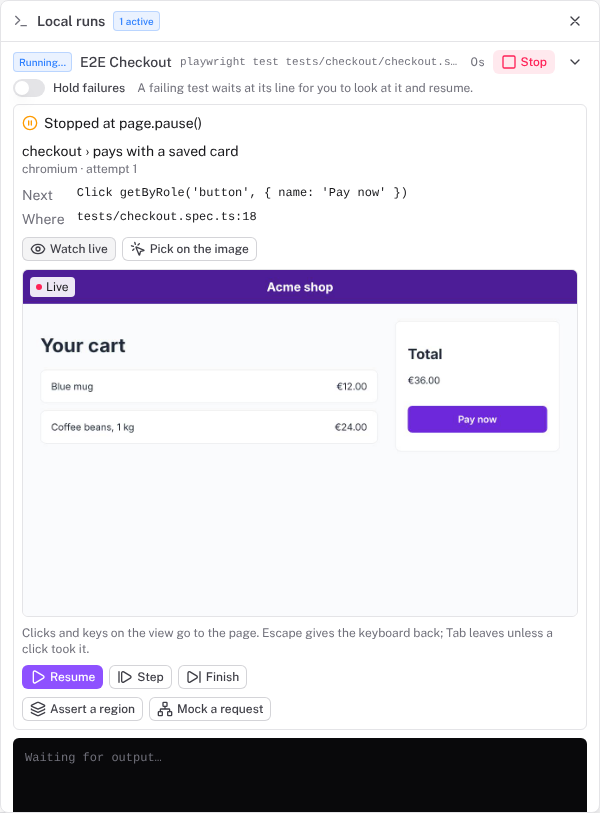
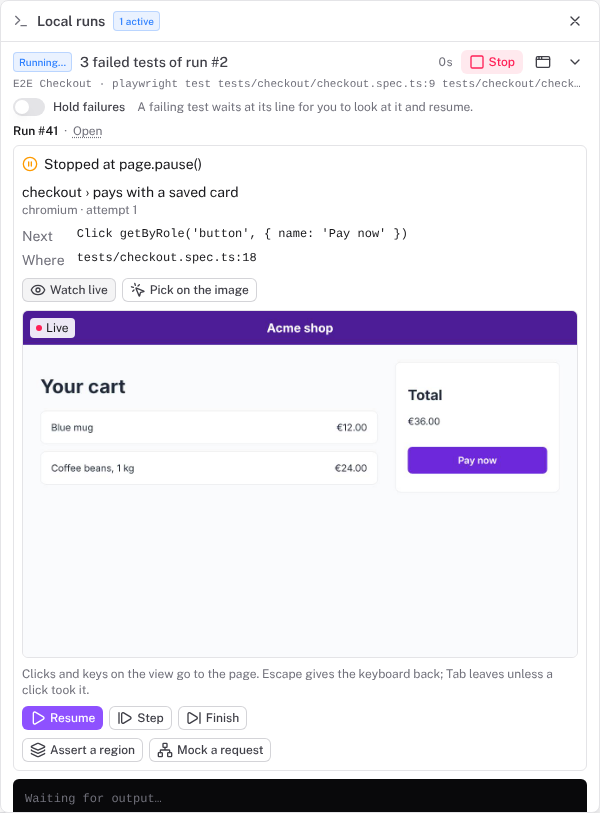
docs(docs): show the run's number and page in the desktop tray and Runs window screenshots
The desktop-run-live scene's run names its page, so the tray shows Run #41 · Open, and the
picker-runs scene plays the run's own process, so the Runs window shows Run #78 with Open and
Copy link and how far the run is. The Runs window is captured at its window's size, its top as it
opens.

Claude-Session: https://claude.ai/code/session_01ADXAbeVo5hXs63eeexKcKH

diff --git a/apps/extension/tests/e2e/docs-screenshots.spec.ts b/apps/extension/tests/e2e/docs-screenshots.spec.ts
@@ -19,6 +19,7 @@ import type { PiwiSteps } from '@piwitests/core/steps';
 import {
   answerNext,
   pairedExtension,
+  runMain,
   startEditor,
   startRun,
   RUN_TAKES,
@@ -259,8 +260,13 @@ test('picker-runs', async () => {
     await runs.setViewportSize({ width: 440, height: 700 });
     await runs.goto(`chrome-extension://${extensionId}/runs.html`);
     const run = await startRun(editor, 'pays with a coupon', [...RUN_TAKES]);
+    // The run's own process: its number and page on the instance, and how far it is.
+    const main = runMain(editor, run.channel, run.ref, 9);
     try {
       await expect(runs.getByText('cart › pays with a coupon')).toBeVisible();
+      main.send({ type: 'run-page', id: 78, url: 'http://127.0.0.1:7494/test-runs/78' });
+      main.send({ type: 'run-progress', done: 3, failed: 0, flaky: 0, skipped: 0 });
+      await expect(runs.locator('.run-progress')).toHaveText('3 of 9 tests');
       run.worker.send({
         type: 'stopped',
         stop: 1,
@@ -282,10 +288,10 @@ test('picker-runs', async () => {
       await runs.locator('.client').evaluate((client) => (client.textContent = 'Visual Studio Code'));
       await runs.getByRole('button', { name: 'Resume' }).hover();
       await runs.waitForTimeout(300);
-      const body = runs.locator('body');
-      // Below the pause bar, whose buttons answer the same stop.
-      await framedOver(backdrop, await body.screenshot(), (await body.boundingBox())!, 'picker-runs', 64);
+      // The window as it opens, its top: below the pause bar, whose buttons answer the same stop.
+      await framedOver(backdrop, await runs.screenshot(), runs.viewportSize()!, 'picker-runs', 64);
     } finally {
+      main.socket.destroy();
       run.worker.socket.destroy();
     }
   } finally {
